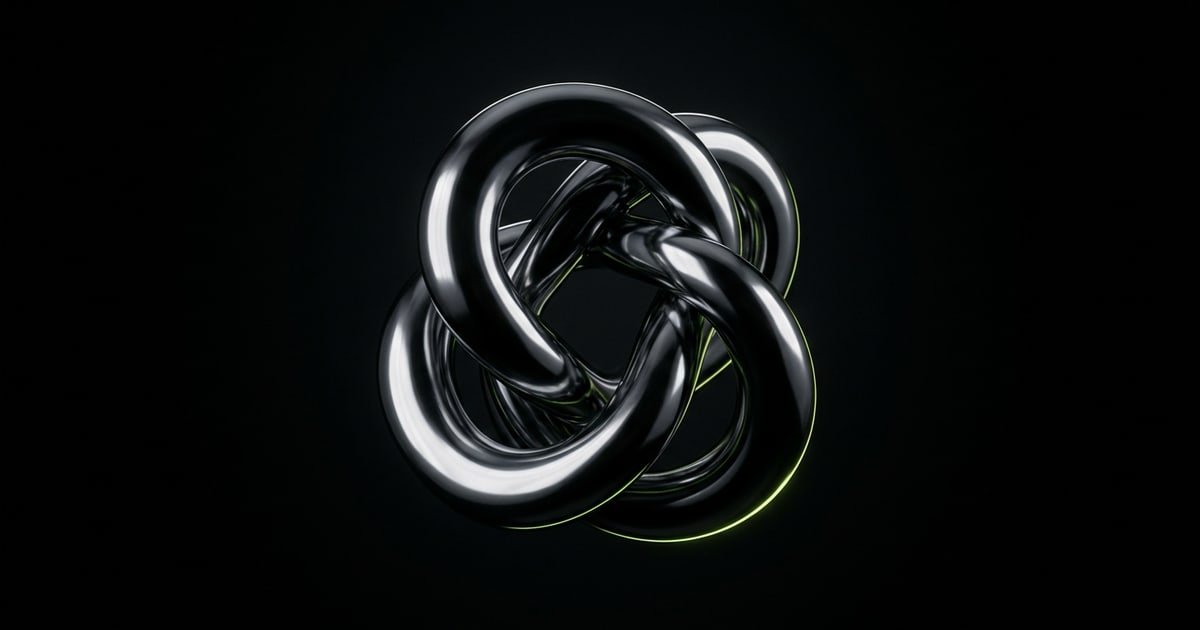
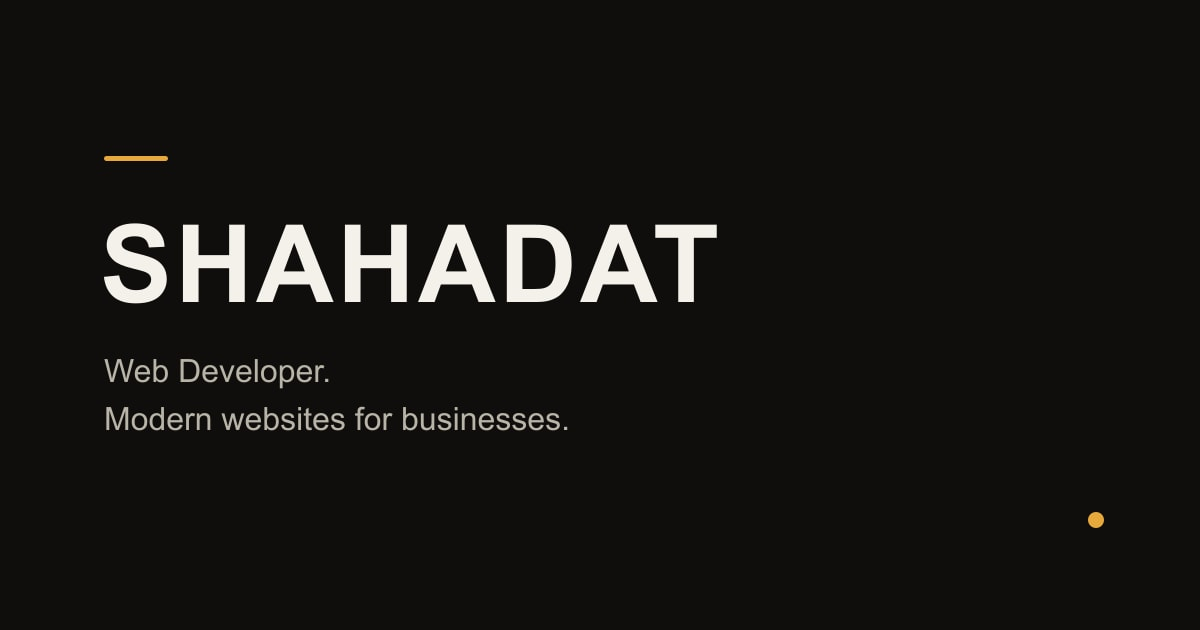
feat: create warm amber Open Graph image

diff --git a/index.html b/index.html
@@ -28,6 +28,12 @@
     />
     <meta property="og:url" content="__SITE_ORIGIN__/" />
     <meta property="og:image" content="__SITE_ORIGIN__/og.jpg" />
+    <meta property="og:image:width" content="1200" />
+    <meta property="og:image:height" content="630" />
+    <meta
+      property="og:image:alt"
+      content="SHAHADAT, Web Developer. Modern websites for businesses."
+    />
     <meta property="og:site_name" content="SHAHADAT" />
 
     <!-- Twitter / X -->
@@ -41,6 +47,10 @@
       content="Shahadat designs and builds responsive websites for small businesses, from clear service pages and enquiry forms to custom interactive experiences."
     />
     <meta name="twitter:image" content="__SITE_ORIGIN__/og.jpg" />
+    <meta
+      name="twitter:image:alt"
+      content="SHAHADAT, Web Developer. Modern websites for businesses."
+    />
 
     <!-- Favicon -->
     <link rel="icon" type="image/svg+xml" href="/favicon.svg" />
